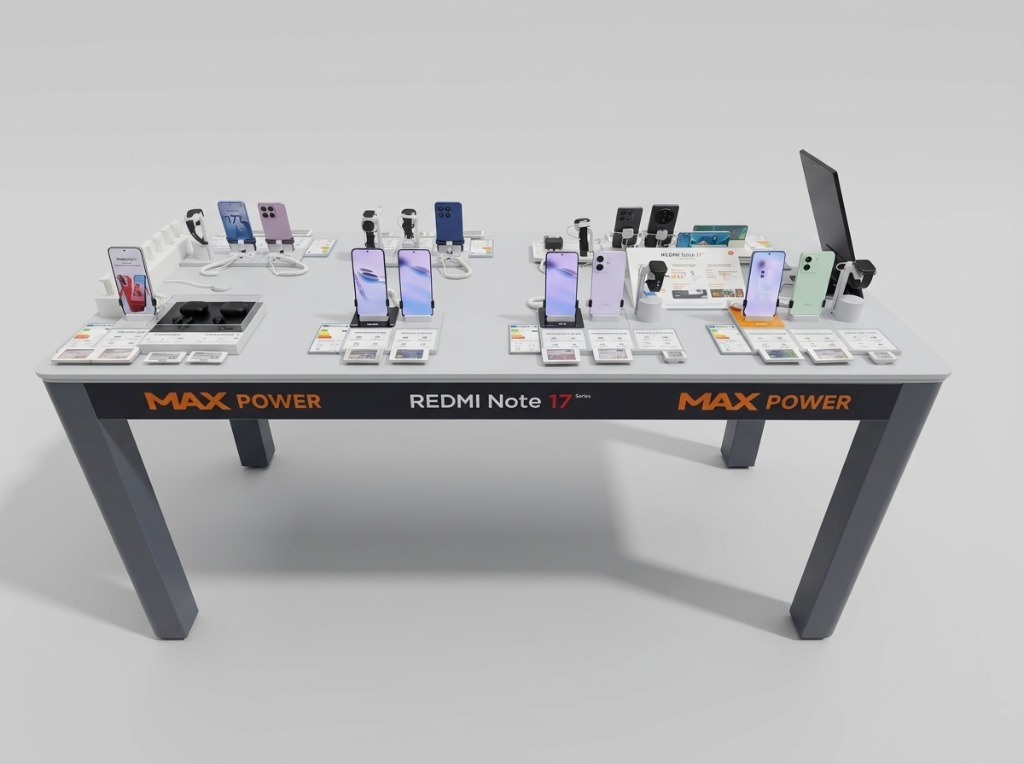
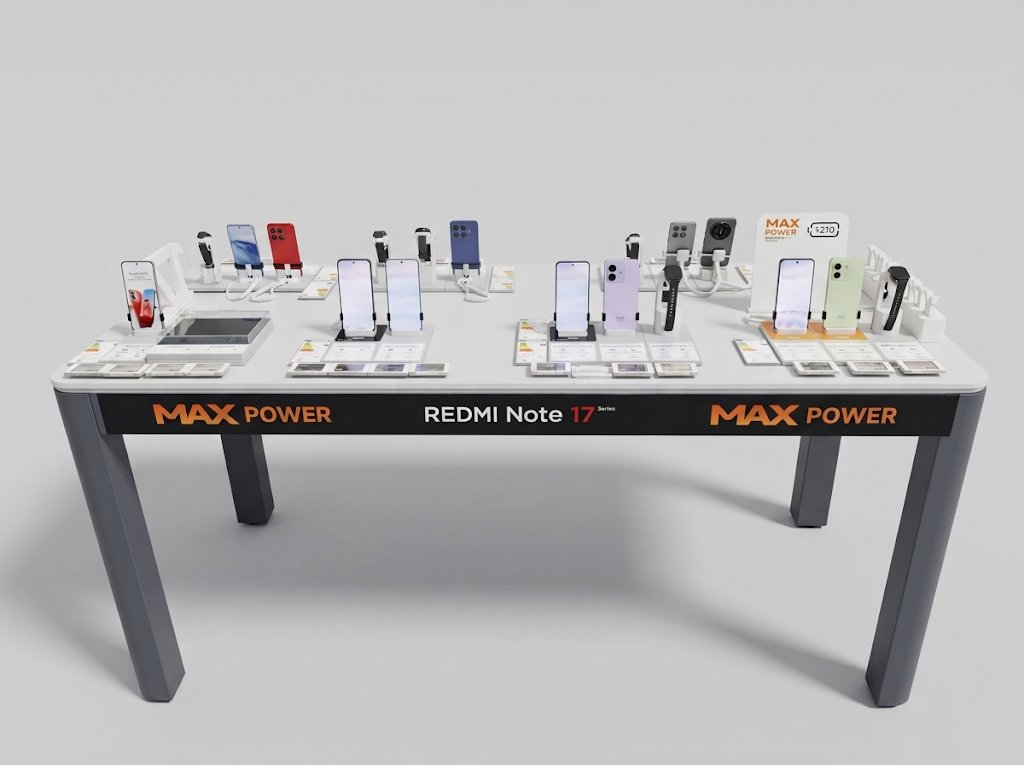
feat(renders): actualizar renders oficiales Table2 Mesa 1 Cara 1 y Cara 2 con calibracion de pines

Changed region(s): [[0.0, 0.1806, 0.9688, 0.9332]]

diff --git a/src/data/defaultData.ts b/src/data/defaultData.ts
@@ -3284,19 +3284,35 @@ export const getPositionsForSpace = (
     ]
   };
 
-  // Coordenadas y dispositivos calibrados para Table 2 Mesa 1 Cara B (Cara 2) - 11 puestos (P13 a P23)
+  // Coordenadas calibradas para Table 2 Mesa 1 Cara 1 (Oficial Wall + MiniWall - 12 puestos: P01 a P12)
+  const TABLE2_MESA1_CARA1_PINS = [
+    { pinX: 18.8, pinY: 48.5 }, // 1. Xiaomi 17 Ultra Green (Dummy tumbada)
+    { pinX: 21.0, pinY: 48.5 }, // 2. Xiaomi 17 Blue (Dummy tumbada)
+    { pinX: 26.8, pinY: 48.5 }, // 3. Xiaomi 17 Ultra Black (Smartphone vertical)
+    { pinX: 31.0, pinY: 48.5 }, // 4. Xiaomi 17 Black (Smartphone vertical)
+    { pinX: 36.0, pinY: 48.5 }, // 5. Xiaomi Watch 5 (Reloj en soporte)
+    { pinX: 40.5, pinY: 48.5 }, // 6. Xiaomi Buds 6 (Audio estuche)
+    { pinX: 56.4, pinY: 48.5 }, // 7. Xiaomi 17T Pro Blue (Smartphone vertical)
+    { pinX: 60.6, pinY: 48.5 }, // 8. Xiaomi Watch S5 45mm (Reloj peana)
+    { pinX: 65.5, pinY: 48.5 }, // 9. Xiaomi Smart Band 10 Pro (Banda peana)
+    { pinX: 77.5, pinY: 48.5 }, // 10. Xiaomi 17T Purple (Smartphone vertical)
+    { pinX: 82.2, pinY: 48.5 }, // 11. Xiaomi 17T Blue (Smartphone vertical)
+    { pinX: 87.5, pinY: 48.5 }  // 12. Xiaomi Smart Band 11 Active (Banda peana)
+  ];
+
+  // Coordenadas y dispositivos calibrados para Table 2 Mesa 1 Cara 2 (Oficial Wall + MiniWall - 11 puestos: P13 a P23)
   const TABLE2_MESA1_CARA2_ITEMS = [
-    { pos: 13, device: 'Redmi 17 5G Orange', dummy: false, category: 'Smartphone' as ProductCategory, pinX: 11.2, pinY: 53.5 },
-    { pos: 14, device: 'Redmi Buds 8', dummy: true, category: 'Audio' as ProductCategory, pinX: 16.5, pinY: 53.5 },
-    { pos: 15, device: 'Redmi Buds 8 Pro', dummy: true, category: 'Audio' as ProductCategory, pinX: 21.9, pinY: 53.5 },
-    { pos: 16, device: 'Redmi Note 17 5G Black', dummy: false, category: 'Smartphone' as ProductCategory, pinX: 34.7, pinY: 53.5 },
-    { pos: 17, device: 'Redmi Note 17 5G Sky Teal', dummy: false, category: 'Smartphone' as ProductCategory, pinX: 41.0, pinY: 53.5 },
-    { pos: 18, device: 'Redmi Note 17 Pro 5G Black', dummy: false, category: 'Smartphone' as ProductCategory, pinX: 53.3, pinY: 53.5 },
-    { pos: 19, device: 'Redmi Note 17 Pro 5G Purple', dummy: true, category: 'Smartphone' as ProductCategory, pinX: 59.8, pinY: 53.5 },
-    { pos: 20, device: 'Redmi Watch 6 Active Black', dummy: false, category: 'Wearable' as ProductCategory, pinX: 65.4, pinY: 53.5 },
-    { pos: 21, device: 'Redmi Note 17 Pro Max 5G Black', dummy: false, category: 'Smartphone' as ProductCategory, pinX: 74.7, pinY: 53.5 },
-    { pos: 22, device: 'Redmi Note 17 Pro Max 5G Green', dummy: true, category: 'Smartphone' as ProductCategory, pinX: 80.8, pinY: 53.5 },
-    { pos: 23, device: 'Redmi Watch 6 Black', dummy: false, category: 'Wearable' as ProductCategory, pinX: 86.2, pinY: 53.5 }
+    { pos: 13, device: 'Redmi 17 5G Orange', dummy: false, category: 'Smartphone' as ProductCategory, pinX: 14.6, pinY: 48.5 },
+    { pos: 14, device: 'Redmi Buds 8', dummy: true, category: 'Audio' as ProductCategory, pinX: 17.6, pinY: 48.5 },
+    { pos: 15, device: 'Redmi Buds 8 Pro', dummy: true, category: 'Audio' as ProductCategory, pinX: 22.1, pinY: 48.5 },
+    { pos: 16, device: 'Redmi Note 17 5G Black', dummy: false, category: 'Smartphone' as ProductCategory, pinX: 34.8, pinY: 48.5 },
+    { pos: 17, device: 'Redmi Note 17 5G Sky Teal', dummy: false, category: 'Smartphone' as ProductCategory, pinX: 40.2, pinY: 48.5 },
+    { pos: 18, device: 'Redmi Note 17 Pro 5G Black', dummy: false, category: 'Smartphone' as ProductCategory, pinX: 55.0, pinY: 48.5 },
+    { pos: 19, device: 'Redmi Note 17 Pro 5G Purple', dummy: true, category: 'Smartphone' as ProductCategory, pinX: 59.5, pinY: 48.5 },
+    { pos: 20, device: 'Redmi Watch 6 Active Black', dummy: false, category: 'Wearable' as ProductCategory, pinX: 65.6, pinY: 48.5 },
+    { pos: 21, device: 'Redmi Note 17 Pro Max 5G Black', dummy: false, category: 'Smartphone' as ProductCategory, pinX: 77.2, pinY: 48.5 },
+    { pos: 22, device: 'Redmi Note 17 Pro Max 5G Green', dummy: true, category: 'Smartphone' as ProductCategory, pinX: 82.5, pinY: 48.5 },
+    { pos: 23, device: 'Redmi Watch 6 Black', dummy: false, category: 'Wearable' as ProductCategory, pinX: 87.6, pinY: 48.5 }
   ];
 
   // Coordenadas y dispositivos calibrados para Table 2 Mesa 2 Cara A (Cara 1) - 6 puestos naturales (1 a 6)
@@ -3359,7 +3375,7 @@ export const getPositionsForSpace = (
   if (isTable2Mesa1Unified) {
     const c1Items = items.slice(0, 12);
     const pCara1: PlanogramPosition[] = c1Items.map((item, index) => {
-      const coord = TABLE1_CARA1_PINS[index];
+      const coord = TABLE2_MESA1_CARA1_PINS[index] || TABLE1_CARA1_PINS[index];
       const posNum = item.pos || index + 1;
       return {
         id: `${tipoEspacioId}-${mesaId.replace(/\s+/g, '_')}-P${posNum}`,

diff --git a/src/data/planogramImages.ts b/src/data/planogramImages.ts
@@ -16,6 +16,7 @@ import linealSmartwatchImg from '../assets/tables/lineal_smartwatch.jpg?inline';
 export const PLANOGRAM_IMAGES = {
   table1Cara1,
   table1Cara1Xiaomi18,
+  table2Mesa1Cara1: table2Mesa1Cara1Xiaomi18,
   table2Mesa1Cara1Xiaomi18,
   table2Mesa1Cara2,
   table1Cara2,
